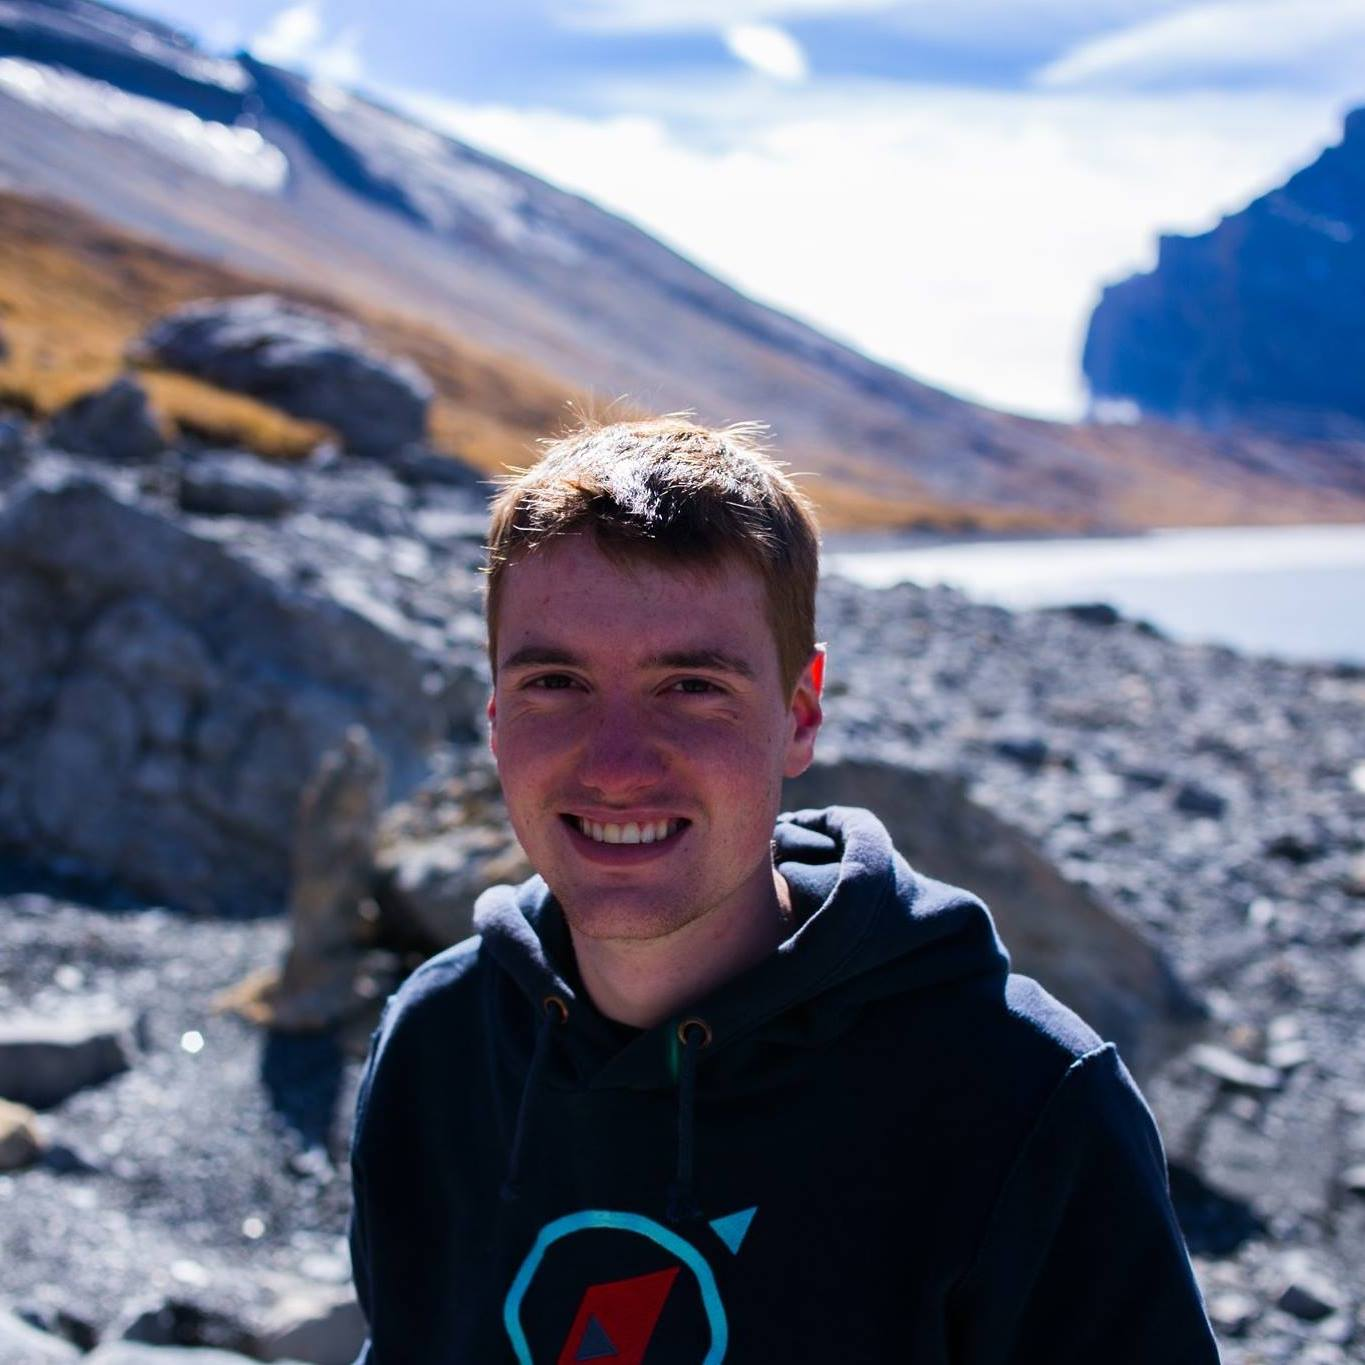
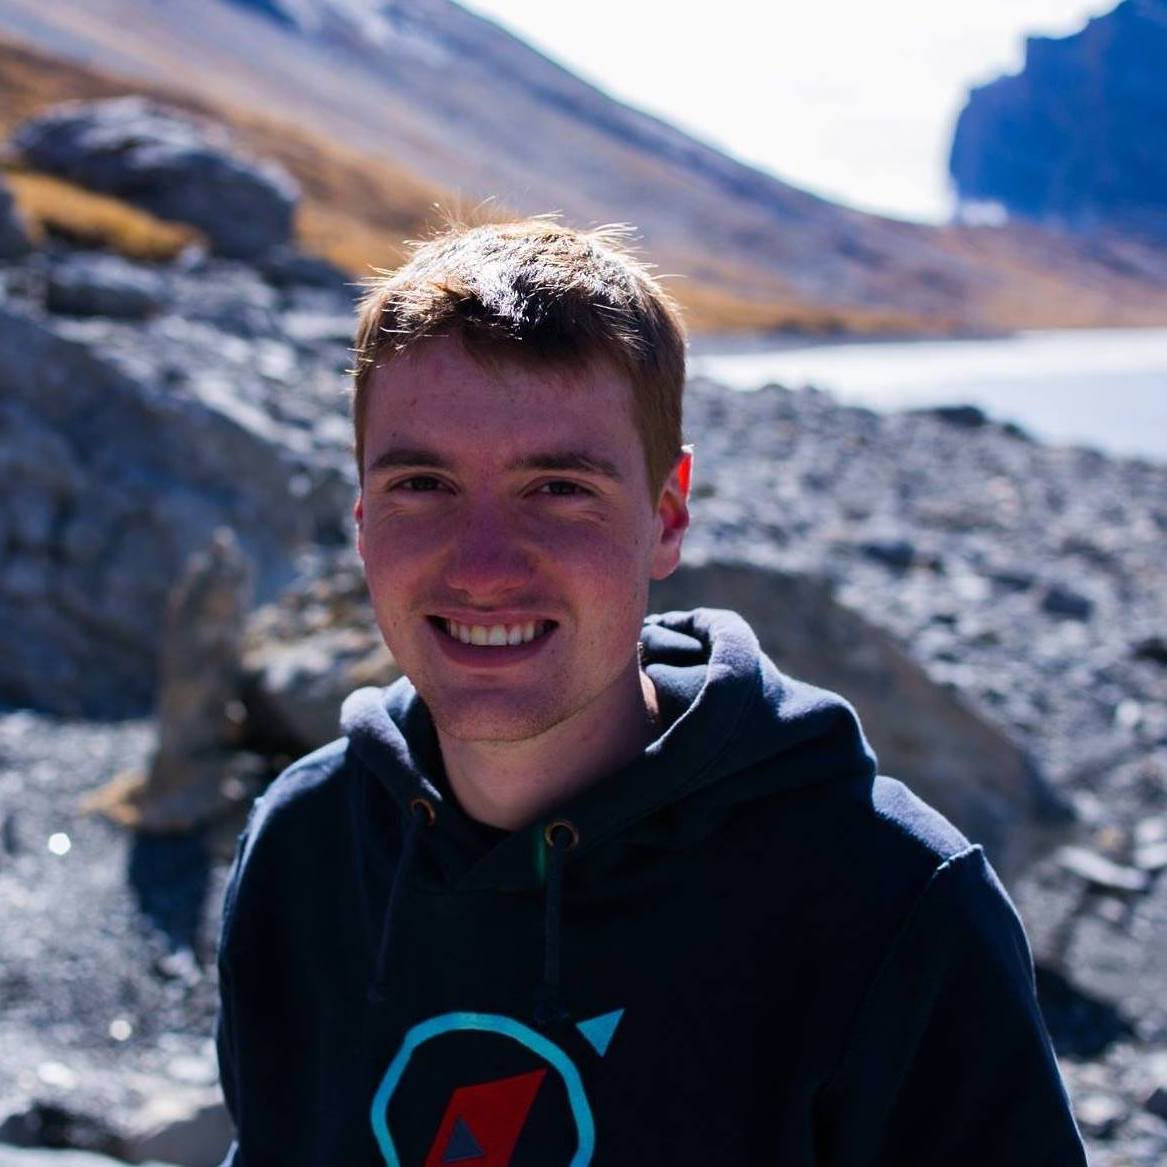
Update images

diff --git a/_includes/head.html b/_includes/head.html
@@ -2,6 +2,7 @@
   <meta charset="utf-8" />
   <meta http-equiv="X-UA-Compatible" content="IE=edge">
   <meta name="viewport" content="width=device-width, initial-scale=1.0, maximum-scale=1.0">
+  <link rel="shortcut icon" type="image/png" href="/favicon.png"/>
 
   <title>{% if page.use-site-title %}{{ site.title }} {{ site.title-separator }} {{ site.description }}{% elsif page.title %}{{ page.title }}{% else %}{{ site.title }}{% endif %}</title>
 

diff --git a/about/index.md b/about/index.md
@@ -8,7 +8,7 @@ We are 3 students from [EPFL](https://www.epfl.ch) and this work is part of a gr
 <div class="container-fluid"> <!-- If Needed Left and Right Padding in 'md' and 'lg' screen means use container class -->
     <div class="row">
         <div class="col-xs-4 col-sm-4 col-md-4 col-lg-4">
-          <img src="../img/us/johnny.jpg" alt="Arnaud" class="img-circle us-img"/>
+          <img src="../img/us/brune.jpg" alt="Brune" class="img-circle us-img"/>
           <div align="center">Brune Bastide</div>
         </div>
         <div class="col-xs-4 col-sm-4 col-md-4 col-lg-4">
@@ -16,7 +16,7 @@ We are 3 students from [EPFL](https://www.epfl.ch) and this work is part of a gr
           <div align="center">Jean-Baptiste Cordonnier</div>
         </div>
         <div class="col-xs-4 col-sm-4 col-md-4 col-lg-4">
-          <img src="../img/us/johnny.jpg" alt="Arnaud" class="img-circle us-img"/>
+          <img src="../img/us/arnaud.jpg" alt="Arnaud" class="img-circle us-img"/>
           <div align="center">Arnaud Lesimple</div>
         </div>
     </div>
